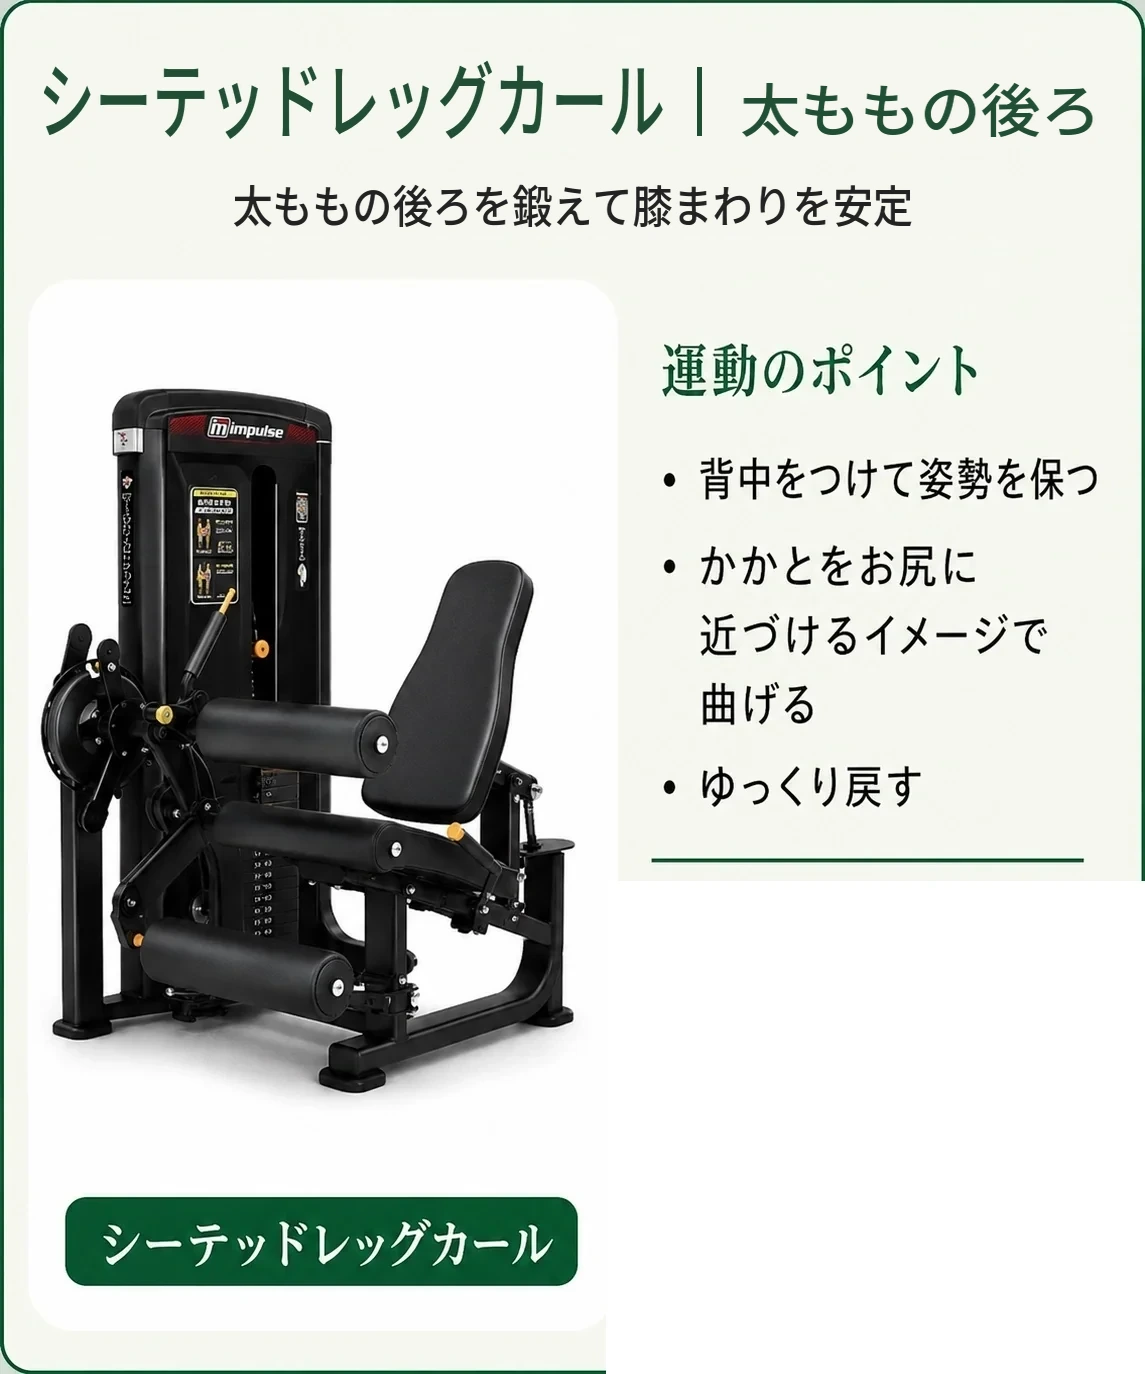
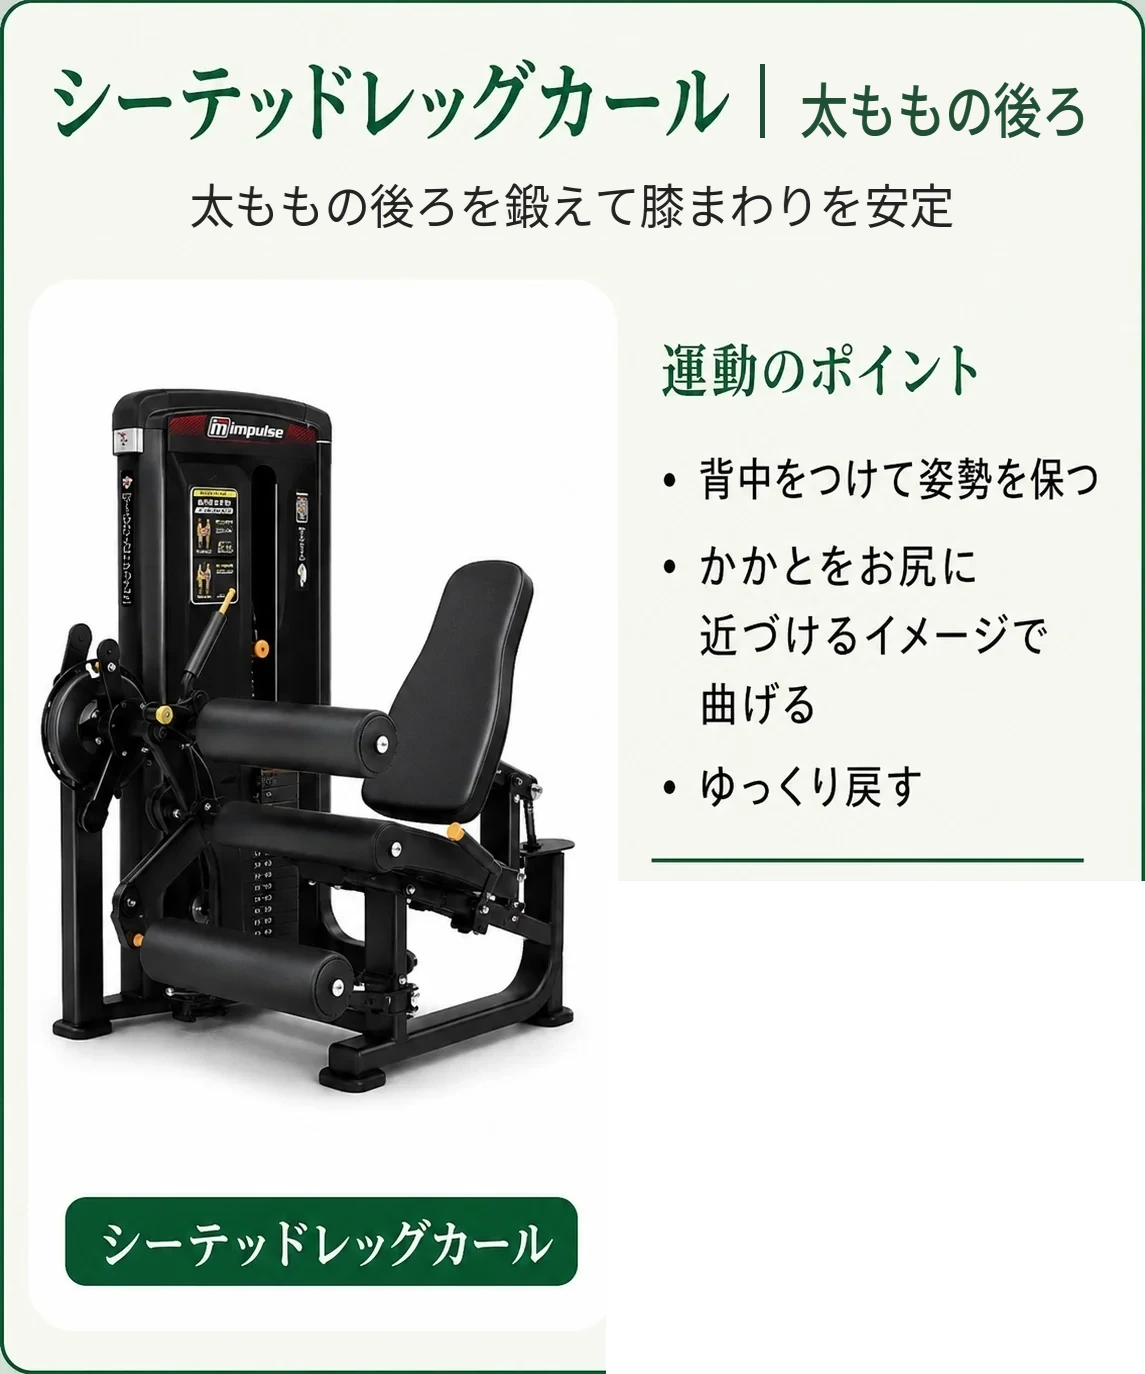
Say 太もも, and rebuild the cards from the real originals
「ふともも」を表と色分け図に合わせて「太もも」にする（本人判断で確定）。

あわせて、カードの作り直しの土台が壊れていたのを直す。pre-copy/ は
assets/exercises/ の現物から退避していたが、そこは既に書き換え後の状態で
コミットされている。つまり「書き換え済みの絵から元の字幅と濃さを測る」
状態になっていて、流すたびに字が細く小さくなっていく。実際に前回の
8be5004 は、キャッチを書き換え後の幅から測った状態で入っていた。

- ORIGINALS_REF（先方支給の状態が入っている最後のコミット 6b0e9fe）から
  元画像を git show で取り出す形にした。2回流して同じ結果になることを確認
- 16枚を本来の元画像から作り直し。先方支給の画素と下80%が完全一致することを再確認

Claude-Session: https://claude.ai/code/session_01UmzzeZxLjjBZmVRgXoNJge

Changed region(s): [[0.0306, 0.0306, 0.9476, 0.1834]]

diff --git a/scripts/rewrite-card-copy.py b/scripts/rewrite-card-copy.py
@@ -22,11 +22,15 @@
 
 リポジトリルートから:
     python scripts/rewrite-card-copy.py
-初回に assets/exercises/pre-copy/ へ元画像を退避するので、何度流しても結果は同じ。
+
+元画像は必ず ORIGINALS_REF（書き換え前のコミット）から取り出す。
+assets/exercises/ の中身は書き換え後の状態でコミットされているので、そこを退避元にすると
+「書き換え済みの絵から元の字幅を測る」ことになり、流すたびに字が細く小さくなっていく。
+実際にそれで1回作り直している。何度流しても同じ結果になるのはこの取り出し方のおかげ。
 """
 
 import os
-import shutil
+import subprocess
 import sys
 
 import numpy as np
@@ -35,6 +39,11 @@ from PIL import Image, ImageDraw, ImageFont
 ROOT = os.path.normpath(os.path.join(os.path.dirname(__file__), ".."))
 EX = os.path.join(ROOT, "assets", "exercises")
 BACKUP = os.path.join(EX, "pre-copy")
+
+# 文言を書き換える前のカード（先方支給の状態）が入っている最後のコミット。
+# build-machine-cards.py でカードを作り直したときは、ここを新しいコミットに上げて
+# pre-copy/ を消してから流し直す。
+ORIGINALS_REF = "6b0e9fe"
 
 FONT_PATH = r"C:\Windows\Fonts\NotoSansJP-VF.ttf"
 WEIGHTS = ["Light", "Regular", "Medium", "SemiBold", "Bold", "ExtraBold", "Black"]
@@ -78,7 +87,7 @@ CHANGES = {
         "catch": ("ハムストリングスを鍛えて膝まわりを安定", "太ももの後ろを鍛えて膝まわりを安定"),
     },
     "071D6111-4469-4F5B-A134-BBEEB4CC5FC4": {  # シーテッドレッグプレス
-        "tag": ("下肢強化", "ふともも"),
+        "tag": ("下肢強化", "太もも"),
         "catch": ("大腿四頭筋・臀筋群を鍛えて立ち上がりを支える",
                   "太ももの前とおしりを鍛えて立ち上がりを支える"),
     },
@@ -303,14 +312,30 @@ def rewrite(name, spec):
     print(f"  {name[:20]:22s} " + " / ".join(notes))
 
 
-def main():
+def fetch_originals():
+    """書き換え前のカードを ORIGINALS_REF から pre-copy/ に取り出す。"""
     os.makedirs(BACKUP, exist_ok=True)
+    got = 0
     for name in CHANGES:
-        src, bak = os.path.join(EX, name + ".webp"), os.path.join(BACKUP, name + ".webp")
-        if not os.path.exists(src):
-            sys.exit(f"カードが無い: {src}")
-        if not os.path.exists(bak):
-            shutil.copy2(src, bak)
+        bak = os.path.join(BACKUP, name + ".webp")
+        if os.path.exists(bak):
+            continue
+        path = f"assets/exercises/{name}.webp"
+        blob = subprocess.run(
+            ["git", "show", f"{ORIGINALS_REF}:{path}"],
+            cwd=ROOT, capture_output=True,
+        ).stdout
+        if blob[:4] != b"RIFF":
+            sys.exit(f"{ORIGINALS_REF} から {path} を取り出せない")
+        with open(bak, "wb") as f:
+            f.write(blob)
+        got += 1
+    if got:
+        print(f"  元画像 {got} 枚を {ORIGINALS_REF} から取り出した")
+
+
+def main():
+    fetch_originals()
     print(f"カード文言の書き換え（{len(CHANGES)}枚）")
     for name, spec in CHANGES.items():
         rewrite(name, spec)

diff --git a/UGOQ_RULEBOOK.md b/UGOQ_RULEBOOK.md
@@ -188,7 +188,7 @@ L3・L4 は元から①が下肢種目で、先頭が動かない。
 | ラクレッチ、ヒップ | 股関節伸ばし | 股関節 | 先方指定 |
 | シーテッドロウ | 肩甲骨を寄せる | 背部 | 先方指定 |
 | ペックフライ、リアデルト | 胸背バランス | 背部・胸部 | 先方指定 |
-| シーテッドレッグプレス | 下肢強化 | ふともも | 先方指定 |
+| シーテッドレッグプレス | 下肢強化 | 太もも | 先方指定（先方は「ふともも」。表と揃えて太ももに） |
 | アブドミナル | 体幹安定 | 腹部 | 同じ規則で |
 | ラットプルダウン | 背中強化 | 背部 | 同じ規則で |
 | ヒップスラスト | 骨盤安定 | 臀部 | 同じ規則で |
@@ -205,8 +205,8 @@ L3・L4 は元から①が下肢種目で、先頭が動かない。
 ひとかたまりとして中央に置き直す。差分は画像の上部20%だけで、それ以外の画素は
 元画像と完全に一致することを16枚すべてで確認済み。
 
-先方が「ふともも」と書いたのはシーテッドレッグプレスの1枚のみ。表と色分け図は
-「太もも」なので表記が揺れている。先方指定を優先して残してあり、揃えるかは確認待ち。
+先方はシーテッドレッグプレスに「ふともも」と書いてきたが、1ページ目の表と色分け図が
+「太もも」なので、そちらに揃えて「太もも」にした（2026-09-09・本人判断で確定）。
 
 触っていないもの。**「体幹」「骨盤」「背骨」**は普通に通じる言葉なので、
 先方のカードのデザインを必要以上に書き換えない方針で残した。**「膝」**も、
